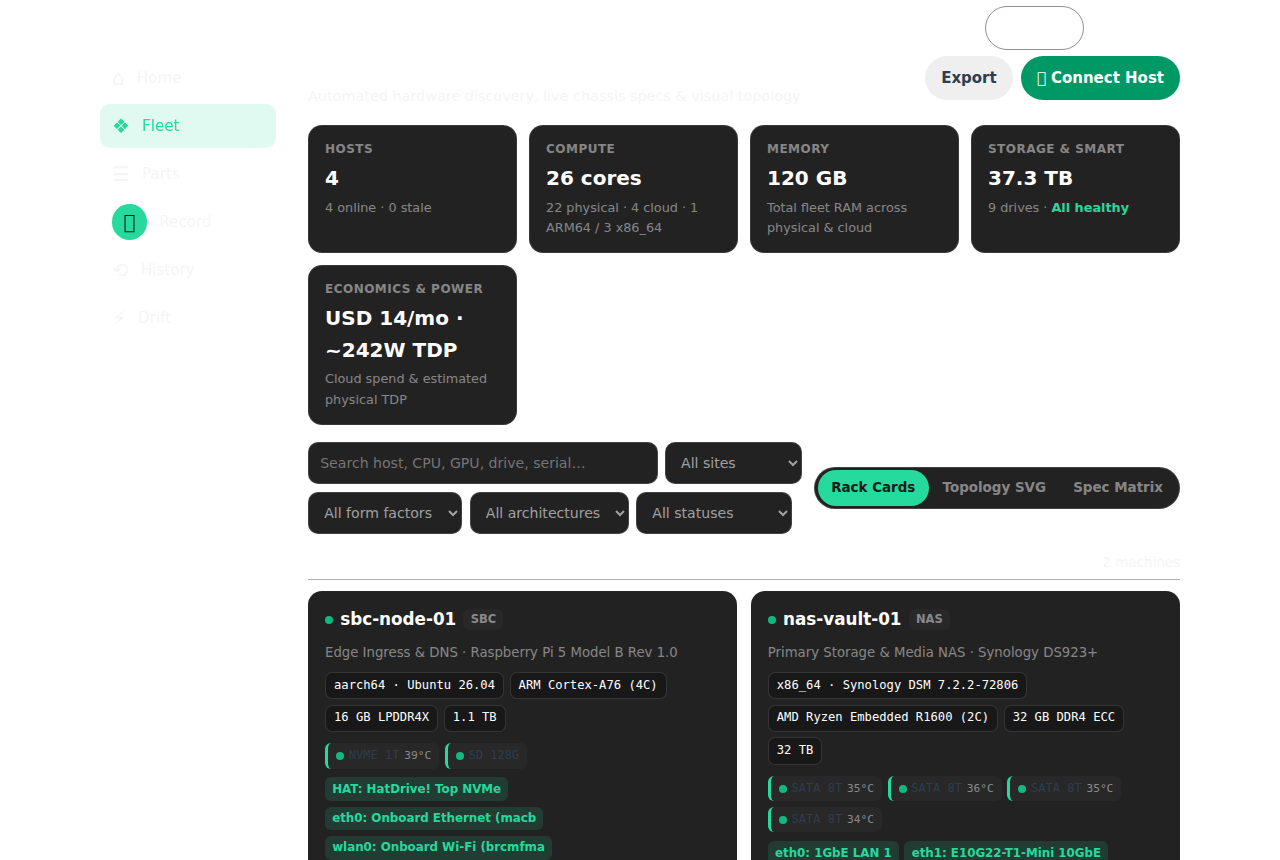
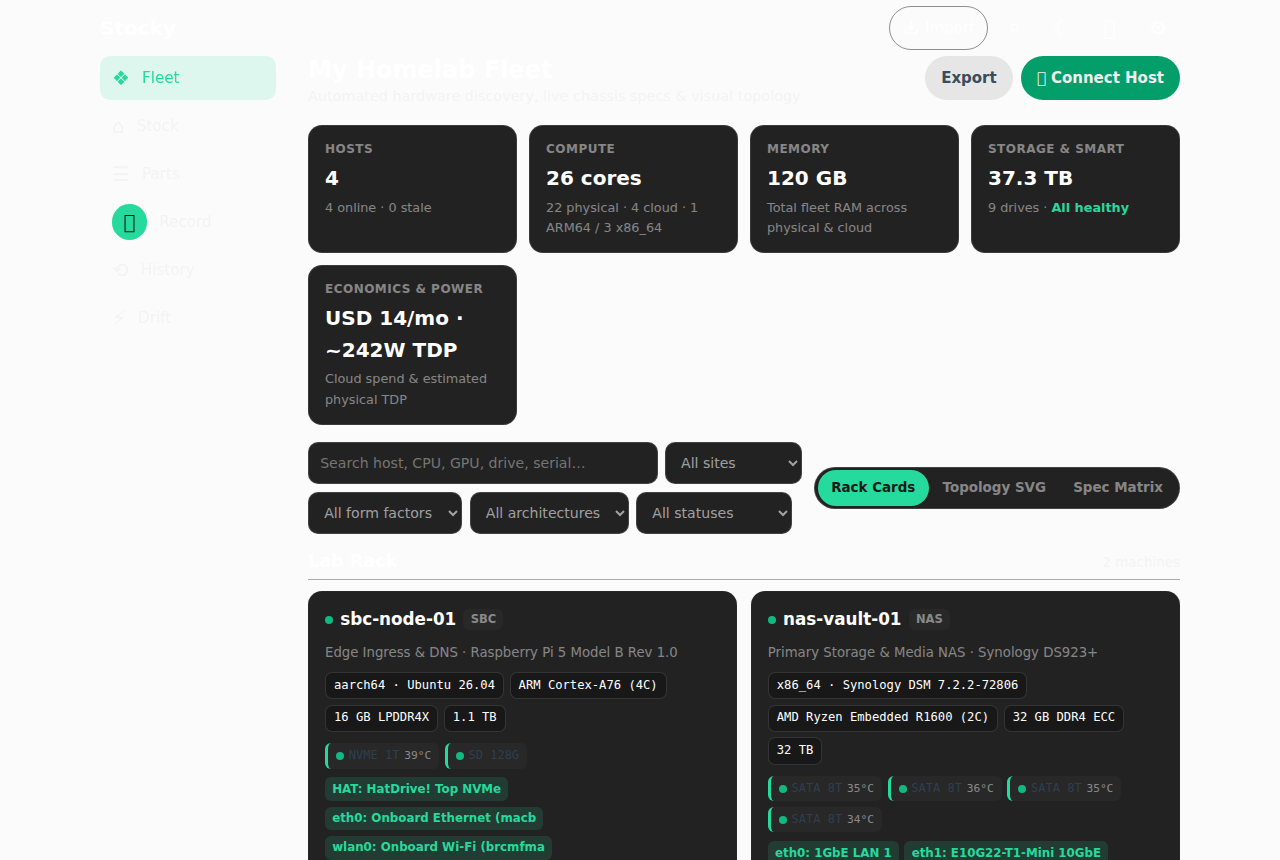
release: v1.1.0 — update README screenshots and changelog

Changed region(s): [[0.0625, 0.0605, 0.2188, 0.1814]]

diff --git a/README.md b/README.md
@@ -18,16 +18,29 @@ It runs as **one Docker container**: [PocketBase](https://pocketbase.io)
 (auth, SQLite, API rules, realtime SSE) serving a Vue 3 app. No cloud services, no external dependencies.
 
 <p align="center">
-  <img src="docs/screenshots/fleet-rack.png" alt="Stocky Fleet Rack & Chassis View" width="460">
+  <img src="docs/screenshots/fleet-rack.png" alt="Stocky 1.1 Fleet Rack & Chassis View (Dark Mode)" width="460">
   &nbsp;&nbsp;
-  <img src="docs/screenshots/fleet-topology.png" alt="Stocky Interactive Fleet Topology SVG" width="460">
+  <img src="docs/screenshots/fleet-light.png" alt="Stocky 1.1 Fleet Rack & Chassis View (Light Mode)" width="460">
 </p>
 
 <p align="center">
-  <img src="docs/screenshots/host-inspector.png" alt="Stocky Host Hardware Anatomy Inspector" width="460">
+  <img src="docs/screenshots/fleet-topology.png" alt="Stocky 1.1 Interactive Fleet Topology SVG" width="460">
   &nbsp;&nbsp;
-  <img src="docs/screenshots/home.png" alt="Stocky Spare Parts & Low Stock Home View" width="280">
+  <img src="docs/screenshots/command-palette.png" alt="Stocky 1.1 Global Cmd+K Command Palette & Serial Search" width="460">
 </p>
+
+<p align="center">
+  <img src="docs/screenshots/host-inspector.png" alt="Stocky 1.1 Host Hardware Anatomy Inspector" width="460">
+  &nbsp;&nbsp;
+  <img src="docs/screenshots/stock-overview.png" alt="Stocky 1.1 Spare Stock & Installed Hardware View" width="460">
+</p>
+
+## What's new in v1.1.0
+
+- **Global `⌘K` / `Ctrl+K` Command Palette:** Instant fuzzy search from any screen (`⌘K`, `Ctrl+K`, or top-bar `⌕` button) across every **Host**, physical **Drive by Serial Number**, **GPU**, **NIC MAC / IPv4**, **Part Type**, and **Quick Actions**.
+- **Light / Dark / System Theme Toggle:** 1-click top-bar theme switcher (`☀` / `☾`) plus a `System / Light / Dark` selector in Settings (`/settings`).
+- **Fleet-First Navigation:** **Fleet** (`/` and `/fleet`) is now the primary landing view, with **Stock** (`/stock` — spare stock per site, low-stock alerts, and installed units) second in the navigation bar.
+- **Hardened Multi-Platform Discovery (`stocky-collect.sh` v2.0 + `stocky-fleet-pull.sh`):** First-class support for bare-metal Linux, Raspberry Pi 4/5 (`arm64`), Cloud KVM VPSes, Synology DSM NASes (`synoinfo.conf` + `/sys/block` + Synology `smartctl`), and Windows WSL2 hosts (`/usr/lib/wsl/lib/nvidia-smi`).
 
 ## What it does
 

diff --git a/CHANGELOG.md b/CHANGELOG.md
@@ -5,6 +5,23 @@ All notable changes to Stocky. The format follows
 [Semantic Versioning](https://semver.org/). Docker images are published as
 `0xwulf/stocky:<version>`, `:<major>.<minor>` and `:latest`.
 
+## [1.1.0] - 2026-11-22
+
+### Added
+
+- **Global `⌘K` / `Ctrl+K` Command Palette (`CommandPalette.vue`):**
+  - Instant fuzzy search from anywhere (`⌘K`, `Ctrl+K`, or top-bar `⌕` icon) across every **Host** (site, OS, CPU, RAM, tags), physical **Drive** (model, slot/device, **serial number**, SMART status, temperature), **GPU** (model, vendor, VRAM), **NIC** (interface, MAC address, IPv4), **Part Type**, and **Quick Actions** (*Fleet*, *Stock*, *Record*, *Connect Host*, *Drift Inbox*, *Toggle Light/Dark Theme*).
+- **Light / Dark / System Theme System (`useTheme.js`):**
+  - Explicit `:root[data-theme="light"]` and `:root[data-theme="dark"]` design tokens with automatic `prefers-color-scheme` fallback.
+  - 1-click top-bar theme toggle (`☀` / `☾`) plus a `System / Light / Dark` Appearance selector in Settings (`/settings`), persisted in `localStorage`.
+- **Collector Hardening for Synology DSM & WSL2 (`tools/stocky-collect.sh`, `tools/stocky-fleet-pull.sh`):**
+  - Prioritizes `/etc.defaults/synoinfo.conf` on Synology DSM so migrated arrays report actual hardware model, adds `/proc/cpuinfo` and `/sys/block` + `/volume1/@appstore/synocli-disk/sbin/smartctl` fallbacks when `lscpu`/`lsblk` are absent, and detects WSL2 NVIDIA GPUs via `/usr/lib/wsl/lib/nvidia-smi`.
+  - Fixed `ssh` stdin redirection in `tools/stocky-fleet-pull.sh` and added hostname normalization (`plus` ↔ `+`, `-brix` suffix) in `pb_hooks/ingest.pb.js`.
+
+### Changed
+
+- **Navigation & Default Home View:** Promoted **Fleet** (`/` and `/fleet`) to the primary home screen and placed **Stock** (`/stock`, spare stock by site, low-stock alerts, and installed units) second in the navigation bar.
+
 ## [1.0.0] - 2026-11-22
 
 ### Added
@@ -103,6 +120,7 @@ Initial public release.
 - One multi-arch Docker image (amd64/arm64): PocketBase serving the Vue app,
   Alpine, non-root.
 
+[1.1.0]: https://github.com/hexawulf/stocky/compare/v1.0.0...v1.1.0
 [1.0.0]: https://github.com/hexawulf/stocky/compare/v0.1.3...v1.0.0
 [0.1.3]: https://github.com/hexawulf/stocky/compare/v0.1.2...v0.1.3
 [0.1.2]: https://github.com/hexawulf/stocky/compare/v0.1.1...v0.1.2
